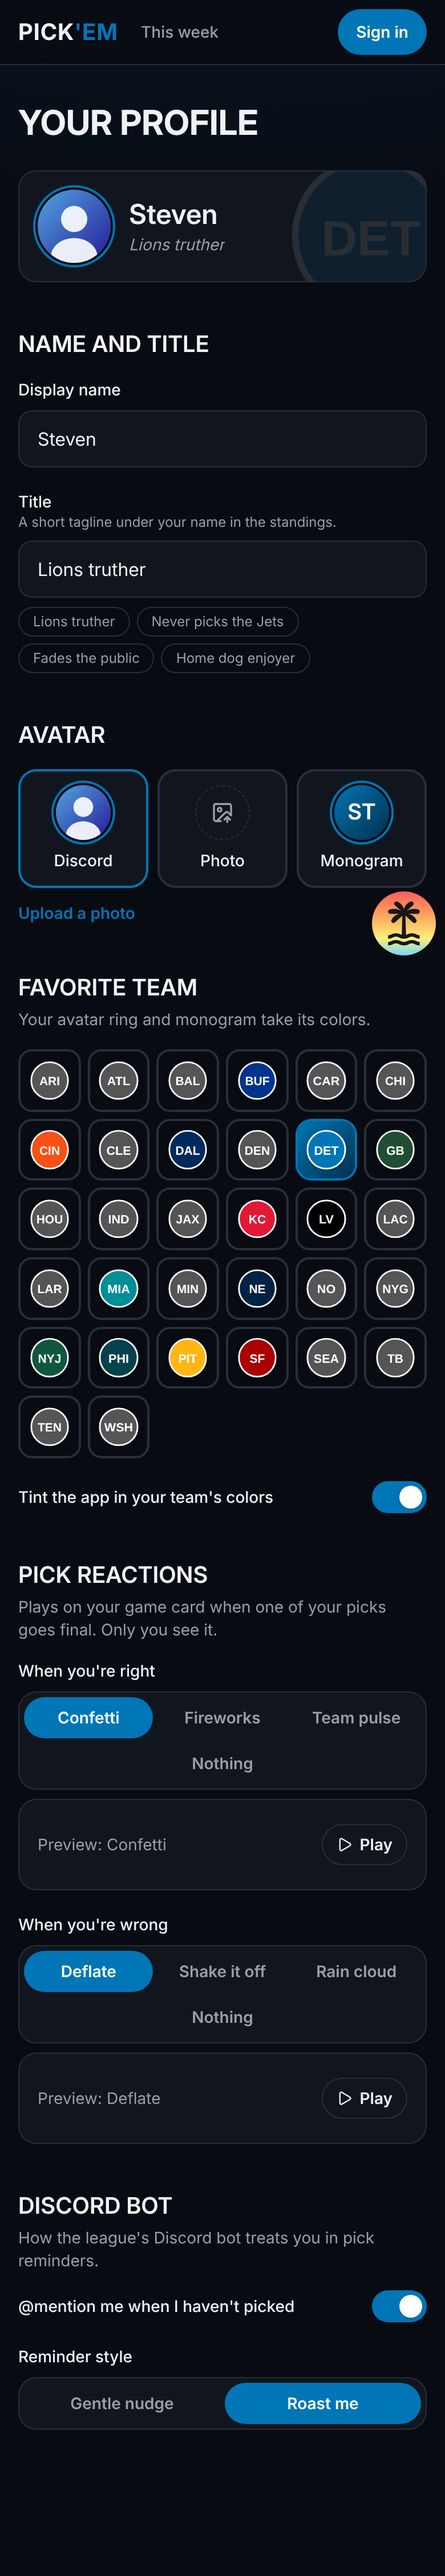
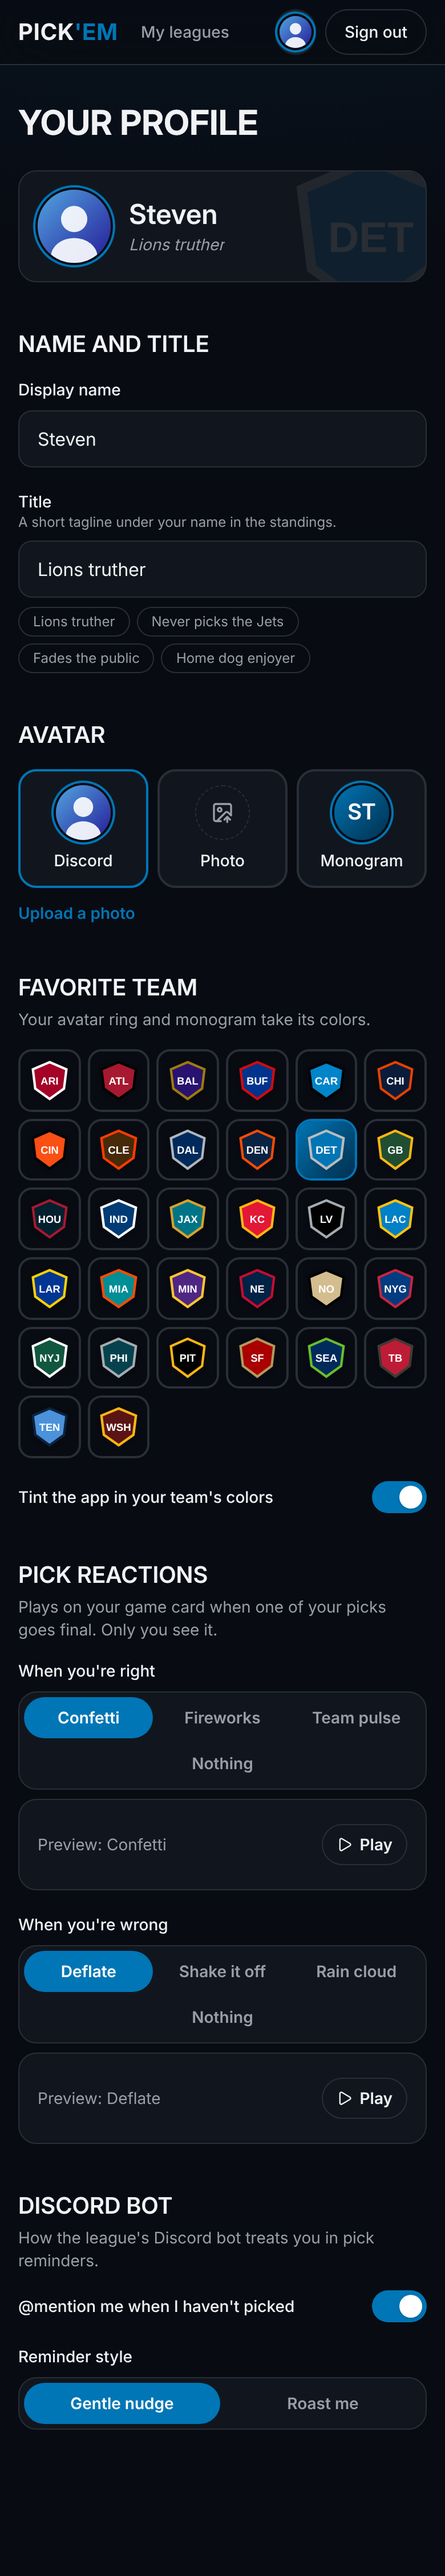
Fix issues found in QA of profile flair
- Fail loudly if roster or picks can't load instead of showing none
- Page season picks past Supabase's 1000-row cap for standings
- Report removing trash talk after the reveal instead of a silent no-op
- Reset the trash talk draft when the week changes
- Re-sync the profile form after save so trimmed text isn't "unsaved"
- Keep a new upload selectable after picking another avatar, and clear
  out older uploads
- Refetch after a lock change instead of restoring a snapshot
- Fall back to a monogram when an avatar fails before hydration, and to
  the team abbreviation when a logo fails
- Accept the avatars bucket on any Supabase host

Claude-Session: https://claude.ai/code/session_01C3jDJzkWjkVHLwfPQpHbxz

diff --git a/src/server/leagues.ts b/src/server/leagues.ts
@@ -126,8 +126,8 @@ export const getLeagueWeek = createServerFn({ method: "GET" })
 		const season = games[0]?.season ?? league.season;
 		const week = games[0]?.week ?? 0;
 		const [
-			{ data: members },
-			{ data: picks },
+			{ data: members, error: membersError },
+			{ data: picks, error: picksError },
 			{ data: talk },
 			{ data: reveal },
 		] = await Promise.all([
@@ -149,6 +149,9 @@ export const getLeagueWeek = createServerFn({ method: "GET" })
 				.eq("week", week),
 			sb.rpc("week_reveal_at", { p_season: season, p_week: week }),
 		]);
+		// An empty roster or pick list would look like lost picks, so fail loudly.
+		const failed = membersError ?? picksError;
+		if (failed) throw new Error(failed.message);
 		// Locked spreads come from our DB so ATS uses the frozen line, not the live one.
 		const { data: locked } = await sb
 			.from("games")
@@ -286,21 +289,28 @@ export const saveTrashTalk = createServerFn({ method: "POST" })
 			season: data.season,
 			week: data.week,
 		};
-		const { error } = data.body
-			? await sb.from("trash_talk").upsert({
-					...key,
-					body: data.body,
-					updated_at: new Date().toISOString(),
-				})
-			: await sb.from("trash_talk").delete().match(key);
+		const locked = "Trash talk is locked once this week's lines are out.";
+		if (!data.body) {
+			// RLS turns a late delete into a no-op rather than an error.
+			const { data: gone, error } = await sb
+				.from("trash_talk")
+				.delete()
+				.match(key)
+				.select("user_id");
+			if (error) throw new Error(error.message);
+			if (!gone?.length) throw new Error(locked);
+			return;
+		}
+		const { error } = await sb.from("trash_talk").upsert({
+			...key,
+			body: data.body,
+			updated_at: new Date().toISOString(),
+		});
 		// RLS rejects writes once the week's lines are revealed.
-		if (error)
-			throw new Error(
-				error.code === "42501"
-					? "Trash talk is locked once this week's lines are out."
-					: error.message,
-			);
+		if (error) throw new Error(error.code === "42501" ? locked : error.message);
 	});
+
+const PAGE = 1000;
 
 /** Every revealed pick on finished games this season, for the standings. */
 export const getStandingsData = createServerFn({ method: "GET" })
@@ -327,14 +337,22 @@ export const getStandingsData = createServerFn({ method: "GET" })
 		}
 		const games = (all ?? []).filter((g) => g.state === "post");
 		const ids = games.map((g) => g.id);
-		const { data: picks } = ids.length
-			? await sb
-					.from("picks")
-					.select(PICK_COLUMNS)
-					.eq("league_id", data.leagueId)
-					.in("game_id", ids)
-			: { data: [] };
-		return { games, weeks, picks: (picks ?? []) as PickRow[] };
+		// A season of picks passes Supabase's 1000-row response cap, so page through.
+		const picks: PickRow[] = [];
+		for (let from = 0; ids.length; from += PAGE) {
+			const { data: page, error } = await sb
+				.from("picks")
+				.select(PICK_COLUMNS)
+				.eq("league_id", data.leagueId)
+				.in("game_id", ids)
+				.order("game_id")
+				.order("user_id")
+				.range(from, from + PAGE - 1);
+			if (error) throw new Error(error.message);
+			picks.push(...((page ?? []) as PickRow[]));
+			if (!page || page.length < PAGE) break;
+		}
+		return { games, weeks, picks };
 	});
 
 export const standingsQuery = (leagueId: string) =>

diff --git a/src/routes/profile.tsx b/src/routes/profile.tsx
@@ -71,6 +71,9 @@ function ProfilePage() {
 		mutationFn: () => updateProfile({ data: changes }),
 		onSuccess: async () => {
 			await qc.invalidateQueries({ queryKey: ["profile"] });
+			// The server trims text, so take its copy back or the form stays "unsaved".
+			const fresh = qc.getQueryData(myProfileQuery().queryKey);
+			if (fresh) setForm(fresh.profile);
 			// Header avatar, team theme, and league rosters read the profile too.
 			qc.invalidateQueries({ queryKey: ["league"] });
 			await router.invalidate();
@@ -150,6 +153,7 @@ function ProfilePage() {
 			<Section title="Avatar">
 				<AvatarPicker
 					userId={data.userId}
+					savedUrl={data.profile.avatar_url}
 					form={form}
 					discordAvatar={data.discordAvatar}
 					onChange={(url, kind) => {
@@ -417,11 +421,13 @@ async function squareWebp(file: File, size = 256): Promise<Blob> {
 
 function AvatarPicker({
 	userId,
+	savedUrl,
 	form,
 	discordAvatar,
 	onChange,
 }: {
 	userId: string;
+	savedUrl: string | null;
 	form: MyProfile;
 	discordAvatar: string | null;
 	/** url undefined keeps the current photo. */
@@ -435,10 +441,12 @@ function AvatarPicker({
 	const [error, setError] = useState("");
 	const usingDiscord =
 		form.avatar_kind === "photo" && form.avatar_url === discordAvatar;
-	const uploaded =
+	// Remembered separately so picking Discord doesn't drop a new upload.
+	const [uploaded, setUploaded] = useState(
 		form.avatar_url && form.avatar_url !== discordAvatar
 			? form.avatar_url
-			: null;
+			: null,
+	);
 
 	async function upload(file: File) {
 		if (!supabase) return setError("Uploads aren't set up here.");
@@ -452,7 +460,17 @@ function AvatarPicker({
 				.upload(path, blob, { contentType: "image/webp" });
 			if (err) throw err;
 			const { data } = supabase.storage.from("avatars").getPublicUrl(path);
+			setUploaded(data.publicUrl);
 			onChange(data.publicUrl, "photo");
+			// Keep only this upload and the saved one; older tries are clutter.
+			const saved = savedUrl?.split("/avatars/")[1]?.split("?")[0];
+			const { data: files } = await supabase.storage
+				.from("avatars")
+				.list(userId);
+			const stale = (files ?? [])
+				.map((f) => `${userId}/${f.name}`)
+				.filter((p) => p !== path && p !== saved);
+			if (stale.length) await supabase.storage.from("avatars").remove(stale);
 		} catch (err) {
 			setError((err as Error).message);
 		} finally {
@@ -589,16 +607,31 @@ function TeamPicker({
 								transition={{ type: "spring", stiffness: 400, damping: 32 }}
 							/>
 						)}
-						<img
-							src={teamLogo(t.abbr)}
-							alt=""
-							className="relative size-[70%] drop-shadow"
-							loading="lazy"
-						/>
+						<TeamLogo abbr={t.abbr} />
 					</motion.button>
 				);
 			})}
 		</div>
+	);
+}
+
+/** Team logo, or its abbreviation if the image can't load. */
+function TeamLogo({ abbr }: { abbr: string }) {
+	const [failed, setFailed] = useState(false);
+	if (failed)
+		return (
+			<span className="relative font-display text-sm font-semibold">
+				{abbr}
+			</span>
+		);
+	return (
+		<img
+			src={teamLogo(abbr)}
+			alt=""
+			className="relative size-[70%] drop-shadow"
+			loading="lazy"
+			onError={() => setFailed(true)}
+		/>
 	);
 }
 

diff --git a/src/components/Avatar.tsx b/src/components/Avatar.tsx
@@ -1,4 +1,4 @@
-import { useState } from "react";
+import { useEffect, useRef, useState } from "react";
 import { teamByAbbr } from "#/lib/nfl/teams";
 import { initials, type PublicProfile } from "#/lib/profile";
 import { accentColors } from "#/lib/team-colors";
@@ -23,12 +23,19 @@ export function Avatar({
 	className?: string;
 }) {
 	const [broken, setBroken] = useState<string | null>(null);
+	const img = useRef<HTMLImageElement>(null);
 	const team = teamByAbbr(profile.favorite_team);
 	const ring = team ? accentColors(team).accent : null;
 	const src =
 		profile.avatar_kind === "photo" && profile.avatar_url !== broken
 			? profile.avatar_url
 			: null;
+	// A server-rendered image can fail before hydration, when onError isn't
+	// listening yet; catch that case once mounted.
+	useEffect(() => {
+		const el = img.current;
+		if (src && el?.complete && el.naturalWidth === 0) setBroken(src);
+	}, [src]);
 	return (
 		<span
 			className={cn(
@@ -45,6 +52,7 @@ export function Avatar({
 		>
 			{src ? (
 				<img
+					ref={img}
 					src={src}
 					alt=""
 					className="size-full object-cover"

diff --git a/src/routes/league/$leagueId.tsx b/src/routes/league/$leagueId.tsx
@@ -233,7 +233,6 @@ function WeekPicks({ leagueId }: { leagueId: string }) {
 		onMutate: async (vars) => {
 			setError("");
 			await qc.cancelQueries({ queryKey: query.queryKey });
-			const prev = qc.getQueryData(query.queryKey);
 			// One lock a week: turning one on moves it off the others.
 			updatePicks((picks) =>
 				picks.map((p) =>
@@ -246,12 +245,10 @@ function WeekPicks({ leagueId }: { leagueId: string }) {
 								: p,
 				),
 			);
-			return { prev };
 		},
-		onError: (err, _vars, ctx) => {
-			setError((err as Error).message);
-			if (ctx?.prev) qc.setQueryData(query.queryKey, ctx.prev);
-		},
+		// Refetch rather than restore a snapshot, which could undo a pick made meanwhile.
+		onError: (err) => setError((err as Error).message),
+		onSettled: () => qc.invalidateQueries({ queryKey: query.queryKey }),
 	});
 	// Your lock can't move once its game kicks off.
 	const lockInPlay = games.some(

diff --git a/src/components/Standings.tsx b/src/components/Standings.tsx
@@ -92,7 +92,12 @@ export function Standings({ leagueId }: { leagueId: string }) {
 					);
 				})}
 			</ol>
-			<TrashTalkBoard leagueId={leagueId} members={members} />
+			{/* Keyed by week so a draft doesn't carry into the next one. */}
+			<TrashTalkBoard
+				key={`${week.trashTalk.season}-${week.trashTalk.week}`}
+				leagueId={leagueId}
+				members={members}
+			/>
 		</section>
 	);
 }
